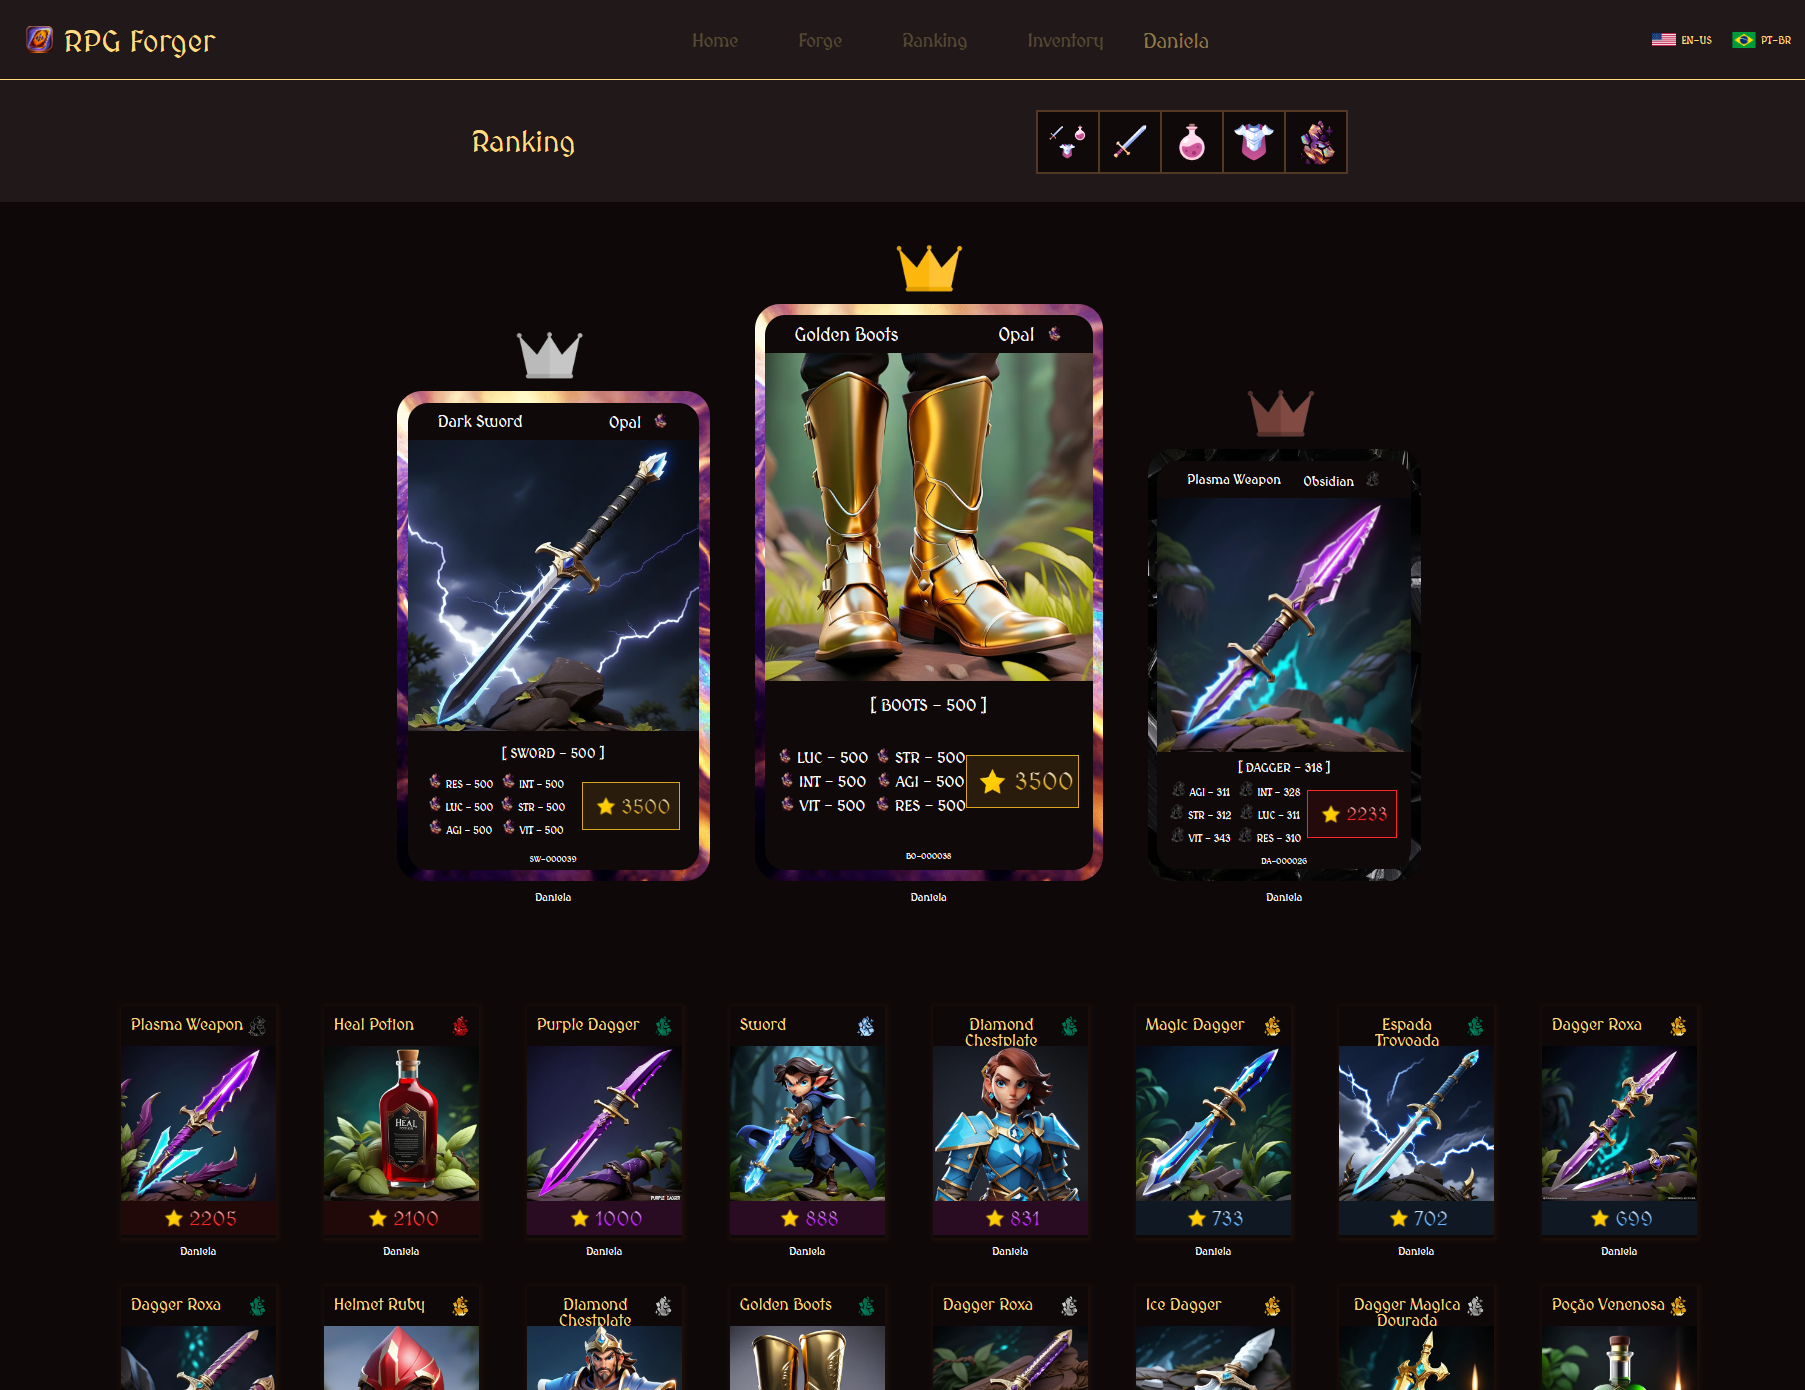
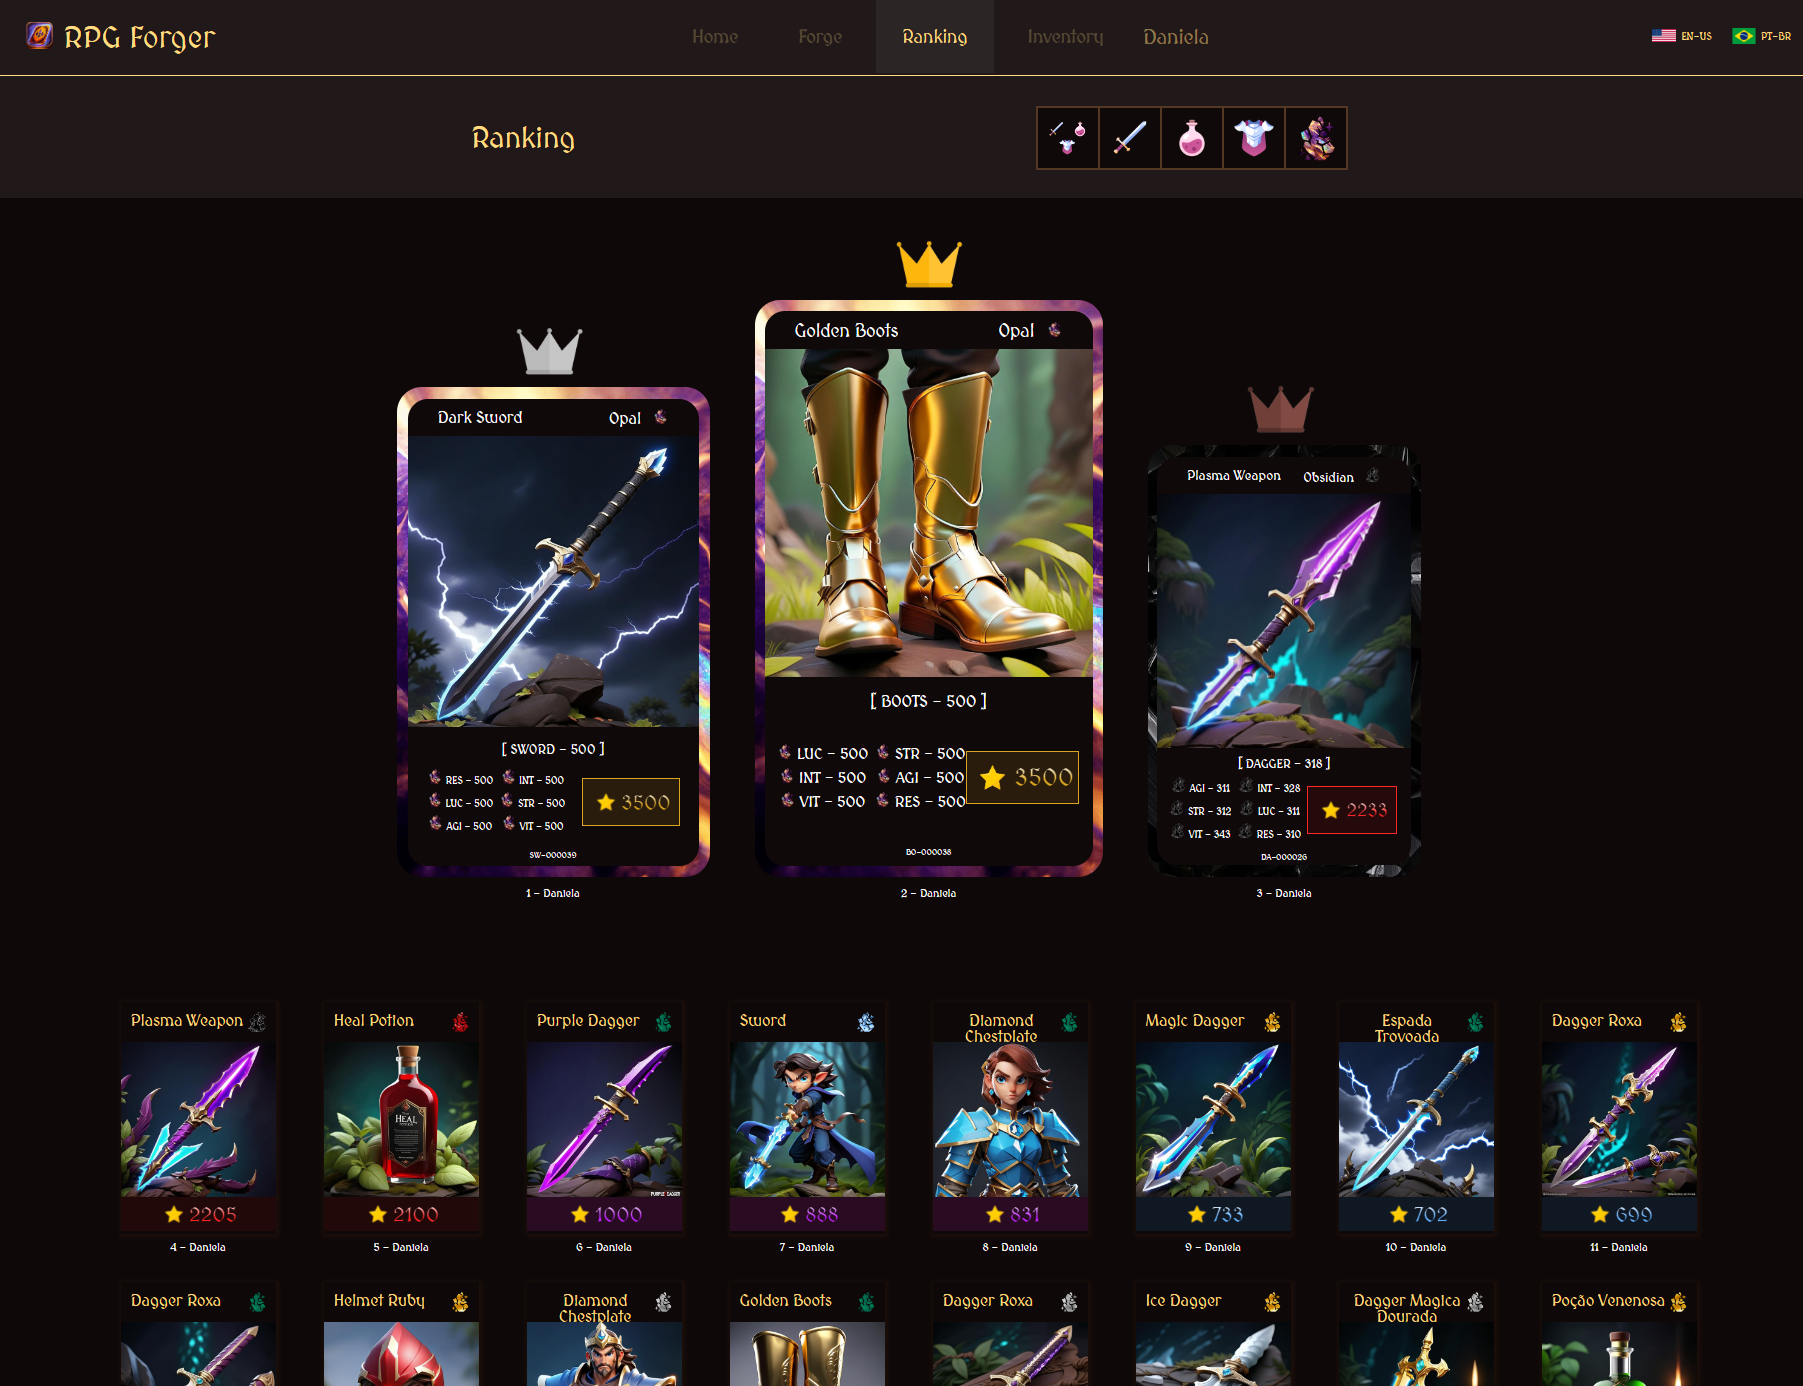
Adicionado número de colocação das cartas no ranking

diff --git a/templates/mini_card_template.html b/templates/mini_card_template.html
@@ -15,7 +15,7 @@
            style="background: linear-gradient(180deg, rgba(255, 255, 255, 0.91) 0%, {{ card.back_color }} 64.5%); -webkit-background-clip: text; -webkit-text-fill-color: transparent;">
             {{ card.power }}</p>
     </div>
-    <div class="card-username"> {{ card.user }}</div>
+    <div class="card-username card-counter">{{ forloop.counter }} - {{ card.user }}</div>
 </li>
 
 {% endwith %}

diff --git a/templates/big_card_template.html b/templates/big_card_template.html
@@ -44,6 +44,6 @@
         </div>
     </div>
 </div>
-<div class="card-username"> {{ card.user }}</div>
+<div class="card-username"> {{ forloop.counter }} - {{ card.user }} </div>
 {% endwith %}
 {% endwith %}

diff --git a/templates/static/css/inventory.css b/templates/static/css/inventory.css
@@ -251,3 +251,6 @@ li.mini-card {
   border: 3px solid var(--light-brown);  /* creates padding around scroll thumb */
 }
 
+.card-counter {
+    display:none;
+}

diff --git a/templates/static/css/ranking.css b/templates/static/css/ranking.css
@@ -85,4 +85,6 @@ ul.filters {
     min-height: 100vh;
 }
 
-
+.card-counter {
+    display: block;
+}

diff --git a/README.md b/README.md
@@ -1,4 +1,4 @@
-# RPG Forger
+# RPG Forger 🚀
 This project is an RPG card generator that connects to two APIs: Segmind and OpenAI.
 
 The generated cards are divided into 3 categories: Weapon, Potion, and Armor. Each 
@@ -13,13 +13,10 @@ category has various different types, capable of generating a variety of unique 
 ### Screenshot: Ranking Cards
 ![Card Forging Screen](README/Ranking.png)
 
-### Video
-![Card Forging Screen](README/videoRPG.mp4)
-
 ### Video:
 https://github.com/DanielaAlmeiida/django-ia-rpg/assets/104696916/8b29dabc-02a4-48ab-9722-dcf0a58199fd
 
-## Dependências do Projeto
+## Dependências do Projeto 🛠
 ```
 annotated-types==0.6.0
 anyio==4.2.0
@@ -46,7 +43,7 @@ tqdm==4.66.1
 typing_extensions==4.9
 ```
 
-# Comandos para execução do projeto
+# Comandos para execução do projeto ⚙
 ```commandline
 python manage.py runserver
 ```
